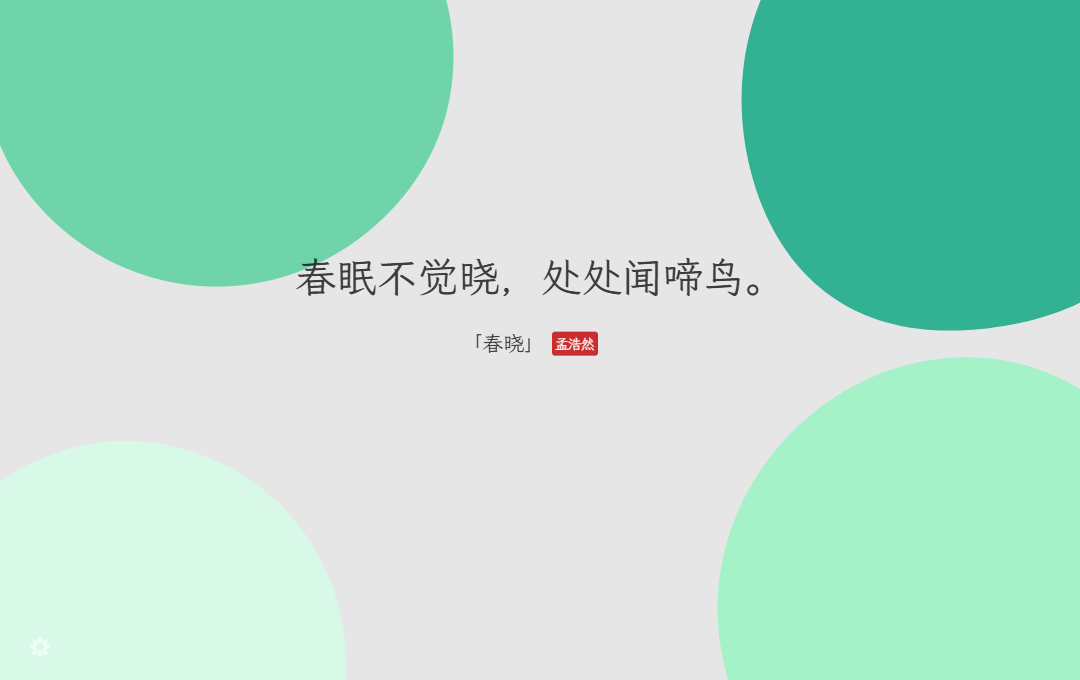
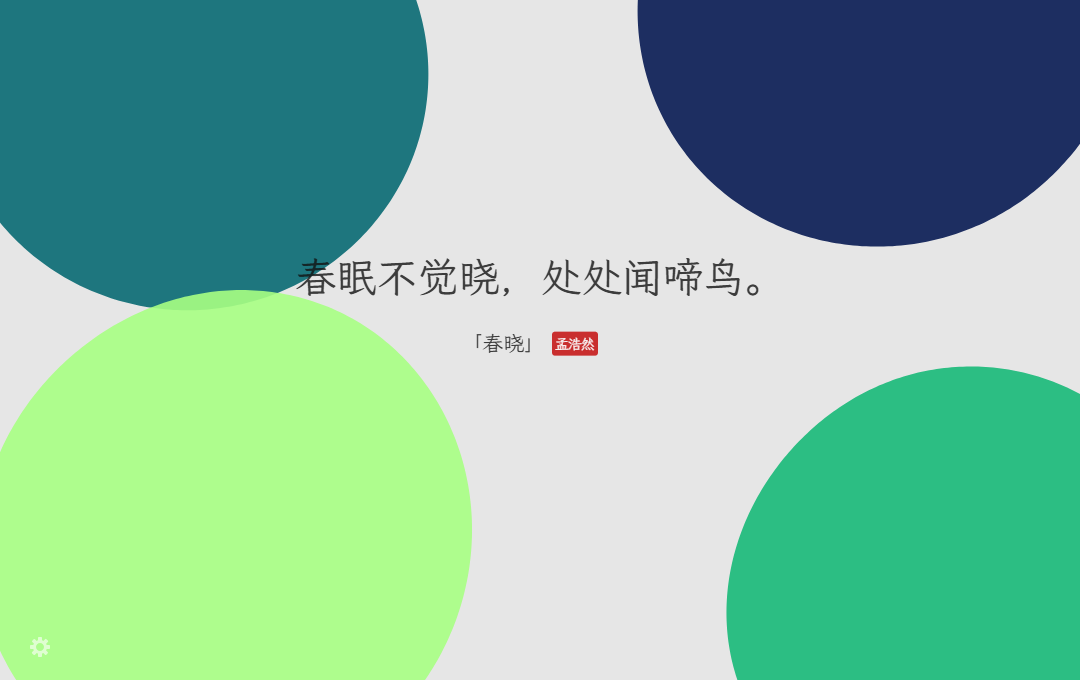
chore: sync Studio with personal homepage

diff --git a/site/jizhi/index.html b/site/jizhi/index.html
@@ -1,9 +1,9 @@
 <!doctype html>
-<html lang="en">
+<html lang="zh-CN">
 <head>
   <meta charset="utf-8"><meta name="viewport" content="width=device-width, initial-scale=1">
-  <title>Jizhi Enhanced — Guide · Amy Studio</title>
-  <meta name="description" content="Jizhi Enhanced: a poetry-filled new tab. Features, installation, and a guide to making it your own.">
+  <title>几枝·增强版 — 使用指南 · Amy Studio</title>
+  <meta name="description" content="几枝·增强版：让诗词走进新标签页。了解功能、安装方式与个性化使用指南。">
   <meta name="color-scheme" content="light dark">
   <link rel="icon" href="../favicon.svg" type="image/svg+xml">
   <script>try { const t=localStorage.getItem('amy-studio.theme'); if(t==='light'||t==='dark')document.documentElement.dataset.theme=t; } catch {}</script>
@@ -11,71 +11,79 @@
   <script defer src="../i18n/runtime.js"></script><script type="module" src="./guide.js"></script>
 </head>
 <body>
-  <a class="skip-link" href="#main">Skip to content</a>
+  <a class="skip-link" href="#main">跳转到内容</a>
   <header class="site-header"><div class="header-inner">
     <a class="brand" href="../">Amy Studio<span class="brand-period">.</span></a>
-    <nav aria-label="Page navigation"><a href="#features">Features</a><a href="#install">Install</a><a href="#guide">User guide</a></nav>
+    <nav aria-label="页面导航"><a href="#features">功能介绍</a><a href="#install">安装</a><a href="#guide">使用指南</a></nav>
     <div class="site-controls"><div class="theme-controls">
       <button id="theme-toggle" class="icon-button" aria-label="Switch color theme"><span aria-hidden="true">☾</span></button>
-      <button id="theme-system" class="system-button" title="Follow your device theme" aria-pressed="true">Auto</button>
+      <button id="theme-system" class="system-button" title="跟随系统主题" aria-pressed="true">跟随系统</button>
     </div></div>
   </div></header>
   <main id="main" class="shell guide-page">
     <section class="guide-hero">
-      <p class="eyebrow">A QUIETER NEW TAB</p><h1>Jizhi Enhanced</h1>
-      <p class="guide-lead">A little poetry. A little color. A fresh start with every tab.</p>
-      <p>An unofficial enhancement of the original Jizhi extension, pairing classical Chinese poetry with animated traditional colors, offline poems, and personal touches.</p>
-      <div class="guide-actions"><a class="button primary" href="#install">Get started ↘</a><a class="button" href="https://github.com/Amy22707/jizhi" target="_blank" rel="noopener noreferrer">Source code ↗</a></div>
-      <figure class="guide-cover"><img src="../images/jizhi-waves.png" alt="Jizhi Enhanced: Chinese poetry over traditional-color waves" width="1080" height="680"><figcaption>A new tab, with room to breathe.</figcaption></figure>
+      <p class="eyebrow">古诗词 · 中国传统色</p><h1>几枝·增强版</h1>
+      <p class="guide-lead">开一页，见几枝。</p>
+      <p>海上明月，庭前疏影。读过的诗句，有时会在意想不到的时候想起。几枝把它们放在新标签页里，伴着缓缓流动的中国传统色。</p>
+      <p>这是基于原版几枝制作的非官方增强版。诗句、配色与字体均可离线使用，也可以留下自己偏爱的一句。</p>
+      <div class="guide-actions"><a class="button primary" href="#install">开始使用 ↘</a><a class="button" href="https://github.com/Amy22707/jizhi" target="_blank" rel="noopener noreferrer">源代码 ↗</a></div>
+      <figure class="guide-cover"><img src="../images/jizhi-waves.png" alt="水色波浪与张九龄《望月怀远》" width="1080" height="680"><figcaption>水色 · 张九龄《望月怀远》</figcaption></figure>
     </section>
-    <section id="features" class="guide-section"><p class="eyebrow">THE SMALL DETAILS</p><h2>Make a new tab feel like yours.</h2>
+    <section id="features" class="guide-section"><p class="eyebrow">诗与颜色之间</p><h2>偶然读到，也可长留。</h2>
       <div class="guide-grid">
-        <article class="guide-card"><h3>Poetry, even offline</h3><p>Explore 8,500 offline verses. Search by poem, poet, or title, pin a favorite, or let random selection bring something new.</p></article>
-        <article class="guide-card"><h3>Colors in motion</h3><p>658 traditional colors, layered waves and Blobs animations, with light, dark, and system-following themes.</p></article>
-        <article class="guide-card"><h3>Type with character</h3><p>Bundled Chinese fonts, simplified and traditional characters, horizontal and vertical layouts, and Nüshu Fengqi with optional Chinese text alongside.</p></article>
-        <article class="guide-card"><h3>Your everyday shortcuts</h3><p>An optional search box, up to eight pinned websites, separate poem and color-name settings, and background screenshots.</p></article>
+        <article class="guide-card"><h3>随手翻到的诗</h3><p>8,501 条诗句，断网也能读。任它随机翻过，或按诗句、作者、篇名寻来；遇到喜欢的，就留在这一页。</p></article>
+        <article class="guide-card"><h3>流动的中国色</h3><p>水色、竹青、藕荷……658 种传统色，各有名字。可以看层叠的波浪，也可以换成 Blobs 泡泡；昼夜与动静，随你选择。</p></article>
+        <article class="guide-card"><h3>宋体、楷书与女书</h3><p>同一句诗，换一种字迹，又有不同的意趣。内置多款字体，可用简体或繁体、横排或竖排，也可试试女书凤栖，旁附汉字原文。</p></article>
+        <article class="guide-card"><h3>诗之外，也有日常</h3><p>需要时，打开搜索框，放上常去的几个网址。想留住眼前的颜色，也可以保存一张背景图。</p></article>
       </div>
     </section>
-    <section id="install" class="guide-section"><p class="eyebrow">DOWNLOAD &amp; INSTALL</p><h2>Choose your way in.</h2>
-      <p>Store listings will be added here after publication. These are placeholders, not live install links.</p>
+    <section id="install" class="guide-section"><p class="eyebrow">下载与安装</p><h2>选择你的安装方式。</h2>
+      <p>上架后将在这里补充商店链接。目前仅作占位，暂不可点击安装。</p>
       <div class="guide-grid store-grid">
-        <article class="guide-card"><h3>Chrome Web Store</h3><span class="store-pending" aria-disabled="true">Awaiting publication</span></article>
-        <article class="guide-card"><h3>Firefox Add-ons</h3><span class="store-pending" aria-disabled="true">Awaiting publication</span></article>
-        <article class="guide-card"><h3>Microsoft Edge Add-ons</h3><span class="store-pending" aria-disabled="true">Awaiting publication</span></article>
+        <article class="guide-card"><h3>Chrome Web Store</h3><span class="store-pending" aria-disabled="true">待发布</span></article>
+        <article class="guide-card"><h3>Firefox Add-ons</h3><span class="store-pending" aria-disabled="true">待发布</span></article>
+        <article class="guide-card"><h3>Microsoft Edge Add-ons</h3><span class="store-pending" aria-disabled="true">待发布</span></article>
       </div>
-      <div class="guide-note"><p>Until store publication, check GitHub Releases for available packages, or build from source. A package may not be available yet; this page does not promise a published download.</p><a href="https://github.com/Amy22707/jizhi/releases" target="_blank" rel="noopener noreferrer">Check GitHub Releases ↗</a></div>
+      <div class="guide-note"><p>商店上架前，可以到 GitHub Releases 查看是否已有安装包，或自行从源码构建。安装包可能尚未发布，请以发布页实际内容为准。</p><a href="https://github.com/Amy22707/jizhi/releases" target="_blank" rel="noopener noreferrer">查看 GitHub Releases ↗</a></div>
       <div class="guide-grid">
-        <article class="guide-card"><h3>Chrome &amp; Edge · Local installation</h3><ol>
-          <li>Download chrome_edge.zip from Releases when available, and extract it.</li>
-          <li>Open your browser's extensions page and enable Developer mode.</li>
-          <li>Choose Load unpacked and select the folder containing manifest.json. In Edge, keep the new-tab change if prompted.</li>
-          <li>Open a new tab. After updating the local files, use Reload on the extension card.</li>
-        </ol><p class="guide-code-label">Extensions pages</p><pre><code>chrome://extensions/
+        <article class="guide-card"><h3>Chrome 与 Edge · 本地安装</h3><ol>
+          <li>发布后，从 Releases 下载对应浏览器的 chrome.zip 或 edge.zip 并解压。</li>
+          <li>打开浏览器的扩展管理页面，开启开发者模式。</li>
+          <li>点击“加载已解压的扩展程序”，选择含 manifest.json 的目录。Edge 如提示修改新标签页，请选择“保留更改”。</li>
+          <li>打开新标签页即可体验。更新本地文件后，在扩展卡片上点击“重新加载”。</li>
+        </ol><p class="guide-code-label">扩展管理页面</p><pre><code>chrome://extensions/
 edge://extensions/</code></pre></article>
-        <article class="guide-card"><h3>Firefox · Temporary installation</h3><ol>
-          <li>Download firefox.zip from Releases when available, or use your local build.</li>
-          <li>Open the debugging page below, choose Load Temporary Add-on, then select firefox.zip or the extracted manifest.json.</li>
-          <li>Open a new tab. Temporary add-ons must be loaded again after restarting Firefox; permanent installation requires Mozilla signing.</li>
+        <article class="guide-card"><h3>Firefox 142+ · 临时安装</h3><ol>
+          <li>发布后，从 Releases 下载 firefox.zip，或使用自行构建的文件。</li>
+          <li>打开下方调试页面，点击“临时载入附加组件”，选择 firefox.zip 或解压目录中的 manifest.json。</li>
+          <li>打开新标签页即可体验。临时扩展在 Firefox 重启后需要重新加载；长期安装需要 Mozilla 签名。</li>
         </ol><pre><code>about:debugging#/runtime/this-firefox</code></pre></article>
       </div>
-      <details><summary>Build from source</summary><p>In the project folder, install dependencies and build the browser packages.</p><pre><code>npm install --legacy-peer-deps
-npm run build</code></pre><p>Output: builds/chrome_edge.zip and builds/firefox.zip. For unpacked loading, use builds/build_chrome or builds/build_firefox.</p></details>
+      <details><summary>从源码构建</summary><p>需要 Node.js 24 和 npm 11。在项目目录执行：</p><pre><code>npm ci --legacy-peer-deps --ignore-scripts
+npm run build:all
+npm run verify:builds
+npm run lint:firefox</code></pre><p>安装包位于 builds/：chrome.zip、edge.zip 与 firefox.zip。Firefox 构建还会生成审核所需的 firefox-source.zip；它不是安装包。</p></details>
     </section>
-    <section id="guide" class="guide-section"><p class="eyebrow">MAKE YOURSELF AT HOME</p><h2>A short user guide.</h2>
+    <section id="guide" class="guide-section"><p class="eyebrow">使用指南</p><h2>把喜欢的留下。</h2>
       <div class="guide-grid">
-        <article class="guide-card"><h3>01 · Find your poem</h3><p>Open the gear menu, then Personalization. Search for a verse, author, or title, or choose a recommended poem. Select Random poem to resume rotation.</p></article>
-        <article class="guide-card"><h3>02 · Set the mood</h3><p>In Background, choose waves or Blobs, a theme, and motion settings. In Personalization, choose a traditional color or customize the wave color and its name. Choose Random to restore color rotation.</p></article>
-        <article class="guide-card"><h3>03 · Shape the words</h3><p>In Fonts, choose a bundled font and character style, then adjust poem and color-name sizes separately. Nüshu Fengqi can show the Chinese original alongside; characters without a matching glyph fall back to Chinese.</p></article>
-        <article class="guide-card"><h3>04 · Keep useful places nearby</h3><p>In Settings, turn on Show favorite websites. Add up to eight addresses; hover or focus a card and use its menu to edit or remove it. Favorites are stored in the current browser and return when re-enabled.</p></article>
+        <article class="guide-card"><h3>01 · 找到喜欢的诗句</h3><p>打开齿轮菜单中的“个性化”，搜索诗句、作者或篇名，也可以选择推荐名句。选回“随机诗句”即可恢复轮换。</p></article>
+        <article class="guide-card"><h3>02 · 调整背景氛围</h3><p>在“背景”中选择波浪或 Blobs、昼夜主题与动静设置。在“个性化”中选择传统色，或自定义波浪底色与名称。选回“随机”即可恢复颜色轮换。</p></article>
+        <article class="guide-card"><h3>03 · 选择字体与字形</h3><p>在“字体”中选择内置字体与字形，分别调整诗句和色名的字号。女书凤栖可附带汉字原文；缺少女书字形的字会以汉字显示。</p></article>
+        <article class="guide-card"><h3>04 · 固定常用网址</h3><p>在“设置”中开启“显示常用网址”，最多可添加 8 个地址。悬停或聚焦卡片后，通过菜单编辑或移除。网址保存在当前浏览器，关闭后重新开启会恢复。</p></article>
       </div>
-      <div class="guide-note"><h3>Keyboard shortcuts</h3><dl class="shortcut-list"><div><dt><kbd>Space</kbd></dt><dd>Pause or resume animation</dd></div><div><dt><kbd>←</kbd> <kbd>→</kbd></dt><dd>Change colors in wave mode</dd></div><div><dt><kbd>Alt</kbd> + <kbd>S</kbd></dt><dd>Save a background screenshot</dd></div></dl></div>
-      <div class="guide-grid gallery"><figure><img src="../images/jizhi-night.png" alt="Dark waves and vertical Chinese poetry" loading="lazy" width="1080" height="680"><figcaption>Dark waves and vertical Chinese poetry</figcaption></figure><figure><img src="../images/jizhi-blobs.png" alt="Poetry with a colorful Blobs background" loading="lazy" width="1080" height="680"><figcaption>Poetry with a colorful Blobs background</figcaption></figure></div>
+      <div class="guide-note"><h3>快捷键</h3><dl class="shortcut-list"><div><dt><kbd>Space</kbd></dt><dd>暂停或播放动画</dd></div><div><dt><kbd>←</kbd> <kbd>→</kbd></dt><dd>在波浪背景下切换颜色</dd></div><div><dt><kbd>Alt</kbd> + <kbd>S</kbd></dt><dd>保存背景截图</dd></div></dl></div>
+      <div class="guide-grid gallery"><figure><img src="../images/jizhi-night.png" alt="深色波浪与竖排繁体，李清照《声声慢》" loading="lazy" width="1080" height="680"><figcaption>深色波浪 · 李清照《声声慢》</figcaption></figure><figure><img src="../images/jizhi-blobs.png" alt="泡泡背景与孟浩然《春晓》" loading="lazy" width="1080" height="680"><figcaption>Blobs 泡泡 · 孟浩然《春晓》</figcaption></figure>
+        <figure><img src="../images/jizhi-nushu-vertical.png" alt="女书凤栖竖排，武则天《如意娘》" loading="lazy"><figcaption>女书凤栖竖排 · 武则天《如意娘》</figcaption></figure>
+        <figure><img src="../images/jizhi-nushu.png" alt="女书凤栖横排，诗句与色名均附汉字原文" loading="lazy"><figcaption>女书凤栖横排，诗句与色名均附汉字原文</figcaption></figure>
+        <figure><img src="../images/jizhi-personalization.png" alt="个性化面板：诗句搜索与推荐名句" loading="lazy"><figcaption>个性化面板：诗句搜索与推荐名句</figcaption></figure>
+        <figure><img src="../images/jizhi-fonts.png" alt="字体面板：简繁字形与字体分组" loading="lazy"><figcaption>字体面板：简繁字形与字体分组</figcaption></figure>
+      </div>
     </section>
-    <section class="guide-section"><h2>Questions &amp; credits</h2>
-      <details><summary>Where are my preferences saved?</summary><p>Poem and color history, pinned choices, and favorite websites stay in the current browser. Do not assume they will automatically sync across browsers or devices.</p></details>
-      <details><summary>Is this the original Jizhi?</summary><p>No. This is an unofficial enhanced version based on Jizhi by Unicar and its contributors. The original project's store listings are not download links for this enhanced version.</p><a href="https://github.com/liminalpurr/jizhi" target="_blank" rel="noopener noreferrer">Original Jizhi ↗</a></details>
-      <p>Thanks to the original Jizhi contributors and the maintainers of the poetry, color, and font resources. Full credits and data sources are documented in the repository.</p>
-      <div class="guide-actions"><a class="button" href="https://github.com/Amy22707/jizhi/blob/main/CREDITS.md" target="_blank" rel="noopener noreferrer">Credits ↗</a><a class="button" href="https://github.com/Amy22707/jizhi/issues" target="_blank" rel="noopener noreferrer">Feedback &amp; issues ↗</a></div>
+    <section class="guide-section"><h2>常见问题与鸣谢</h2>
+      <details><summary>我的设置保存在哪里？</summary><p>诗句与颜色历史、固定选择和常用网址保存在当前浏览器，不会自动跨浏览器或设备同步。</p></details>
+      <details><summary>这是原版几枝吗？</summary><p>不是。这是基于 Unicar 及其贡献者开发的几枝制作的非官方增强版。原版的商店入口不是本增强版的下载链接。</p><a href="https://github.com/liminalpurr/jizhi" target="_blank" rel="noopener noreferrer">原版几枝 ↗</a></details>
+      <p>感谢原版几枝贡献者，以及诗词、传统色与字体资源的维护者。完整鸣谢与数据来源见项目仓库。</p>
+      <div class="guide-actions"><a class="button" href="https://github.com/Amy22707/jizhi/blob/main/CREDITS.md" target="_blank" rel="noopener noreferrer">鸣谢 ↗</a><a class="button" href="https://github.com/Amy22707/jizhi/issues" target="_blank" rel="noopener noreferrer">反馈与问题 ↗</a></div>
     </section>
   </main>
   <footer class="shell site-footer"><a class="brand" href="../">Amy Studio<span class="brand-period">.</span></a><p>Small things, thoughtfully made.</p><span>© <span id="year">2026</span> Amy Studio</span></footer>

diff --git a/site/styles.css b/site/styles.css
@@ -63,7 +63,7 @@ h1 > span { color: var(--muted); font-family: Georgia, "Times New Roman", serif;
 .filters { display: flex; flex-wrap: wrap; gap: 6px; }.filter { padding: 8px 15px; border: 1px solid transparent; border-radius: 7px; font-size: 12px; color: var(--muted); background: transparent; }.filter.active { background: var(--accent); color: var(--accent-text); }.filter:hover:not(.active) { background: var(--soft); }
 .collection-count { font-size: 10px; color: var(--muted); }
 .project-grid { display: grid; grid-template-columns: repeat(2, minmax(0, 1fr)); gap: 24px; }
-.project-card { overflow: hidden; border: 1px solid var(--line); border-radius: 14px; background: var(--paper); }
+.project-card { display: flex; flex-direction: column; overflow: hidden; border: 1px solid var(--line); border-radius: 14px; background: var(--paper); }
 .project-grid .project-art { position: relative; display: grid; place-items: center; height: auto; aspect-ratio: 10 / 7; overflow: hidden; background: var(--game-bg); }
 .project-art.tool { background: var(--tool-bg); }.project-art img { width: 100%; height: 100%; object-fit: contain; padding: 32px; }
 .project-art.postcard { height: auto; aspect-ratio: 10 / 7; }
@@ -73,12 +73,12 @@ h1 > span { color: var(--muted); font-family: Georgia, "Times New Roman", serif;
 .game-tile span { display: grid; place-items: center; width: 42px; height: 42px; border: 1px solid #8c9e8355; border-radius: 10px; background: var(--paper); font-size: 20px; color: var(--accent); }
 .game-tile span:nth-child(5) { background: var(--accent); color: var(--accent-text); }.game-tile span:nth-child(3) { background: var(--peach); }
 .tool-tile { width: 190px; padding: 17px; border: 1px solid var(--line); border-radius: 12px; background: var(--paper); box-shadow: var(--shadow); transform: rotate(6deg); }.tool-tile strong { display: block; font-size: 28px; color: var(--accent); margin-bottom: 17px; }.tool-tile i { display: block; height: 7px; margin: 10px 0; border-radius: 5px; background: var(--soft); }.tool-tile i:nth-child(3) { width: 68%; }.tool-tile i:nth-child(4) { width: 85%; }
-.project-copy { padding: 24px; }.project-topline { display: flex; justify-content: space-between; color: var(--muted); font-size: 9px; letter-spacing: .1em; text-transform: uppercase; }.project-status { color: var(--accent); }
+.project-copy { display: flex; flex-direction: column; flex: 1; padding: 24px; }.project-topline { display: flex; justify-content: space-between; color: var(--muted); font-size: 9px; letter-spacing: .1em; text-transform: uppercase; }.project-status { color: var(--accent); }
 .project-copy h3 { margin: 12px 0 8px; font-size: 24px; letter-spacing: -.045em; font-weight: 600; }.project-copy > p { min-height: 48px; margin: 0 0 20px; color: var(--muted); font-size: 13px; }.project-meta { display: flex; flex-wrap: wrap; gap: 6px; }.project-meta span { padding: 3px 8px; border: 1px solid var(--line); border-radius: 6px; color: var(--muted); font-size: 10px; }
 .project-highlights { margin: 0 0 20px; padding-left: 17px; color: var(--muted); font-size: 12px; line-height: 1.8; }
 .project-highlights li + li { margin-top: 3px; }
 .project-copy > .project-notice { min-height: 0; margin: 18px 0 0; padding: 12px; border: 1px solid var(--line); border-radius: 8px; background: var(--soft); color: var(--ink); font-size: 11px; line-height: 1.7; }
-.project-actions { display: flex; justify-content: space-between; align-items: center; flex-wrap: wrap; gap: 12px; border-top: 1px solid var(--line); padding-top: 18px; margin-top: 18px; }.detail-button { padding: 0; border: 0; background: transparent; color: var(--ink); font-size: 12px; font-weight: 600; }.detail-button span { margin-left: 9px; }.project-actions .button { padding: 7px 12px; font-size: 11px; }
+.project-actions { display: flex; justify-content: space-between; align-items: center; flex-wrap: wrap; gap: 12px; border-top: 1px solid var(--line); padding-top: 18px; margin-top: auto; }.project-copy > .project-actions { padding-top: 18px; margin-top: 24px; }.project-copy > .project-notice { margin-top: auto; }.project-copy > .project-meta { margin-bottom: 18px; }.detail-button { padding: 0; border: 0; background: transparent; color: var(--ink); font-size: 12px; font-weight: 600; }.detail-button span { margin-left: 9px; }.project-actions .button { padding: 7px 12px; font-size: 11px; }
 .updates-section { padding-block: 90px; }.updates-list { border-top: 1px solid var(--line); margin-top: 28px; }.empty-note { padding: 23px 0; color: var(--muted); font-size: 13px; }.loading-note { color: var(--muted); font-size: 13px; }
 .update-row { display: grid; grid-template-columns: 120px 1fr; gap: 24px; padding: 23px 0; border-bottom: 1px solid var(--line); }.update-row time { color: var(--muted); font-size: 11px; }.update-row h3 { margin: 0 0 5px; font-size: 16px; }.update-row p { margin: 0; color: var(--muted); font-size: 13px; }.update-row a { text-decoration: underline; text-underline-offset: 4px; }
 .about-card { display: grid; grid-template-columns: 1fr 1fr; gap: 70px; padding: 44px; border: 1px solid var(--line); border-radius: 16px; background: var(--soft); }.about-card h2 { margin: 0; font-family: Georgia, serif; font-size: 35px; font-weight: 400; line-height: 1.3; letter-spacing: -.025em; }.about-copy p { margin: 0 0 16px; font-size: 13px; color: var(--muted); line-height: 1.9; }.contact-area { padding-top: 22px; margin-top: 22px; border-top: 1px solid var(--line); }.about-copy .contact-label { margin-bottom: 10px; font-size: 9px; letter-spacing: .1em; }.about-copy .contact-placeholder { margin: 0; font-size: 12px; }.contact-area a { display: inline-block; margin: 0 18px 6px 0; text-decoration: underline; text-underline-offset: 4px; font-size: 12px; }

diff --git a/site/jizhi/guide.js b/site/jizhi/guide.js
@@ -6,9 +6,11 @@ const current = () => root.dataset.theme || (media.matches ? 'dark' : 'light');
 function paint() {
   const dark = current() === 'dark';
   toggle.firstElementChild.textContent = dark ? '☀' : '☾';
-  toggle.setAttribute('aria-label', `Switch to ${dark ? 'light' : 'dark'} mode`);
-  toggle.title = toggle.getAttribute('aria-label');
-  system.setAttribute('aria-pressed', String(!root.dataset.theme));
+  const label = root.dataset.language === 'en' ? `Switch to ${dark ? 'light' : 'dark'} mode` : `切换到${dark ? '浅' : '深'}色模式`;
+  if (toggle.getAttribute('aria-label') !== label) toggle.setAttribute('aria-label', label);
+  if (toggle.title !== label) toggle.title = label;
+  const pressed = String(!root.dataset.theme);
+  if (system.getAttribute('aria-pressed') !== pressed) system.setAttribute('aria-pressed', pressed);
 }
 toggle.addEventListener('click', () => {
   root.dataset.theme = current() === 'dark' ? 'light' : 'dark';
@@ -21,5 +23,6 @@ system.addEventListener('click', () => {
   paint();
 });
 media.addEventListener('change', paint);
+window.addEventListener('site-language-change', paint);
 document.querySelector('#year').textContent = String(new Date().getFullYear());
 paint();

diff --git a/site/app.js b/site/app.js
@@ -104,7 +104,7 @@ function card(project) {
   details.setAttribute('aria-label', `View details: ${title(project)}`);
   details.addEventListener('click', () => openProject(project));
   actions.append(details);
-  if (externalUrl(project.pageUrl)) actions.append(link(project.kind === 'tool' ? 'User guide ↗' : 'Project preview ↗', externalUrl(project.pageUrl), true));
+  if (externalUrl(project.pageUrl)) actions.append(link('User guide ↗', externalUrl(project.pageUrl), true));
   else if (externalUrl(project.downloadUrl)) actions.append(link('Download ↓', externalUrl(project.downloadUrl), true));
   else if (externalUrl(project.playUrl)) actions.append(link('Play ↗', externalUrl(project.playUrl), true));
   else if (externalUrl(project.sourceUrl)) actions.append(link('Source code', externalUrl(project.sourceUrl)));
